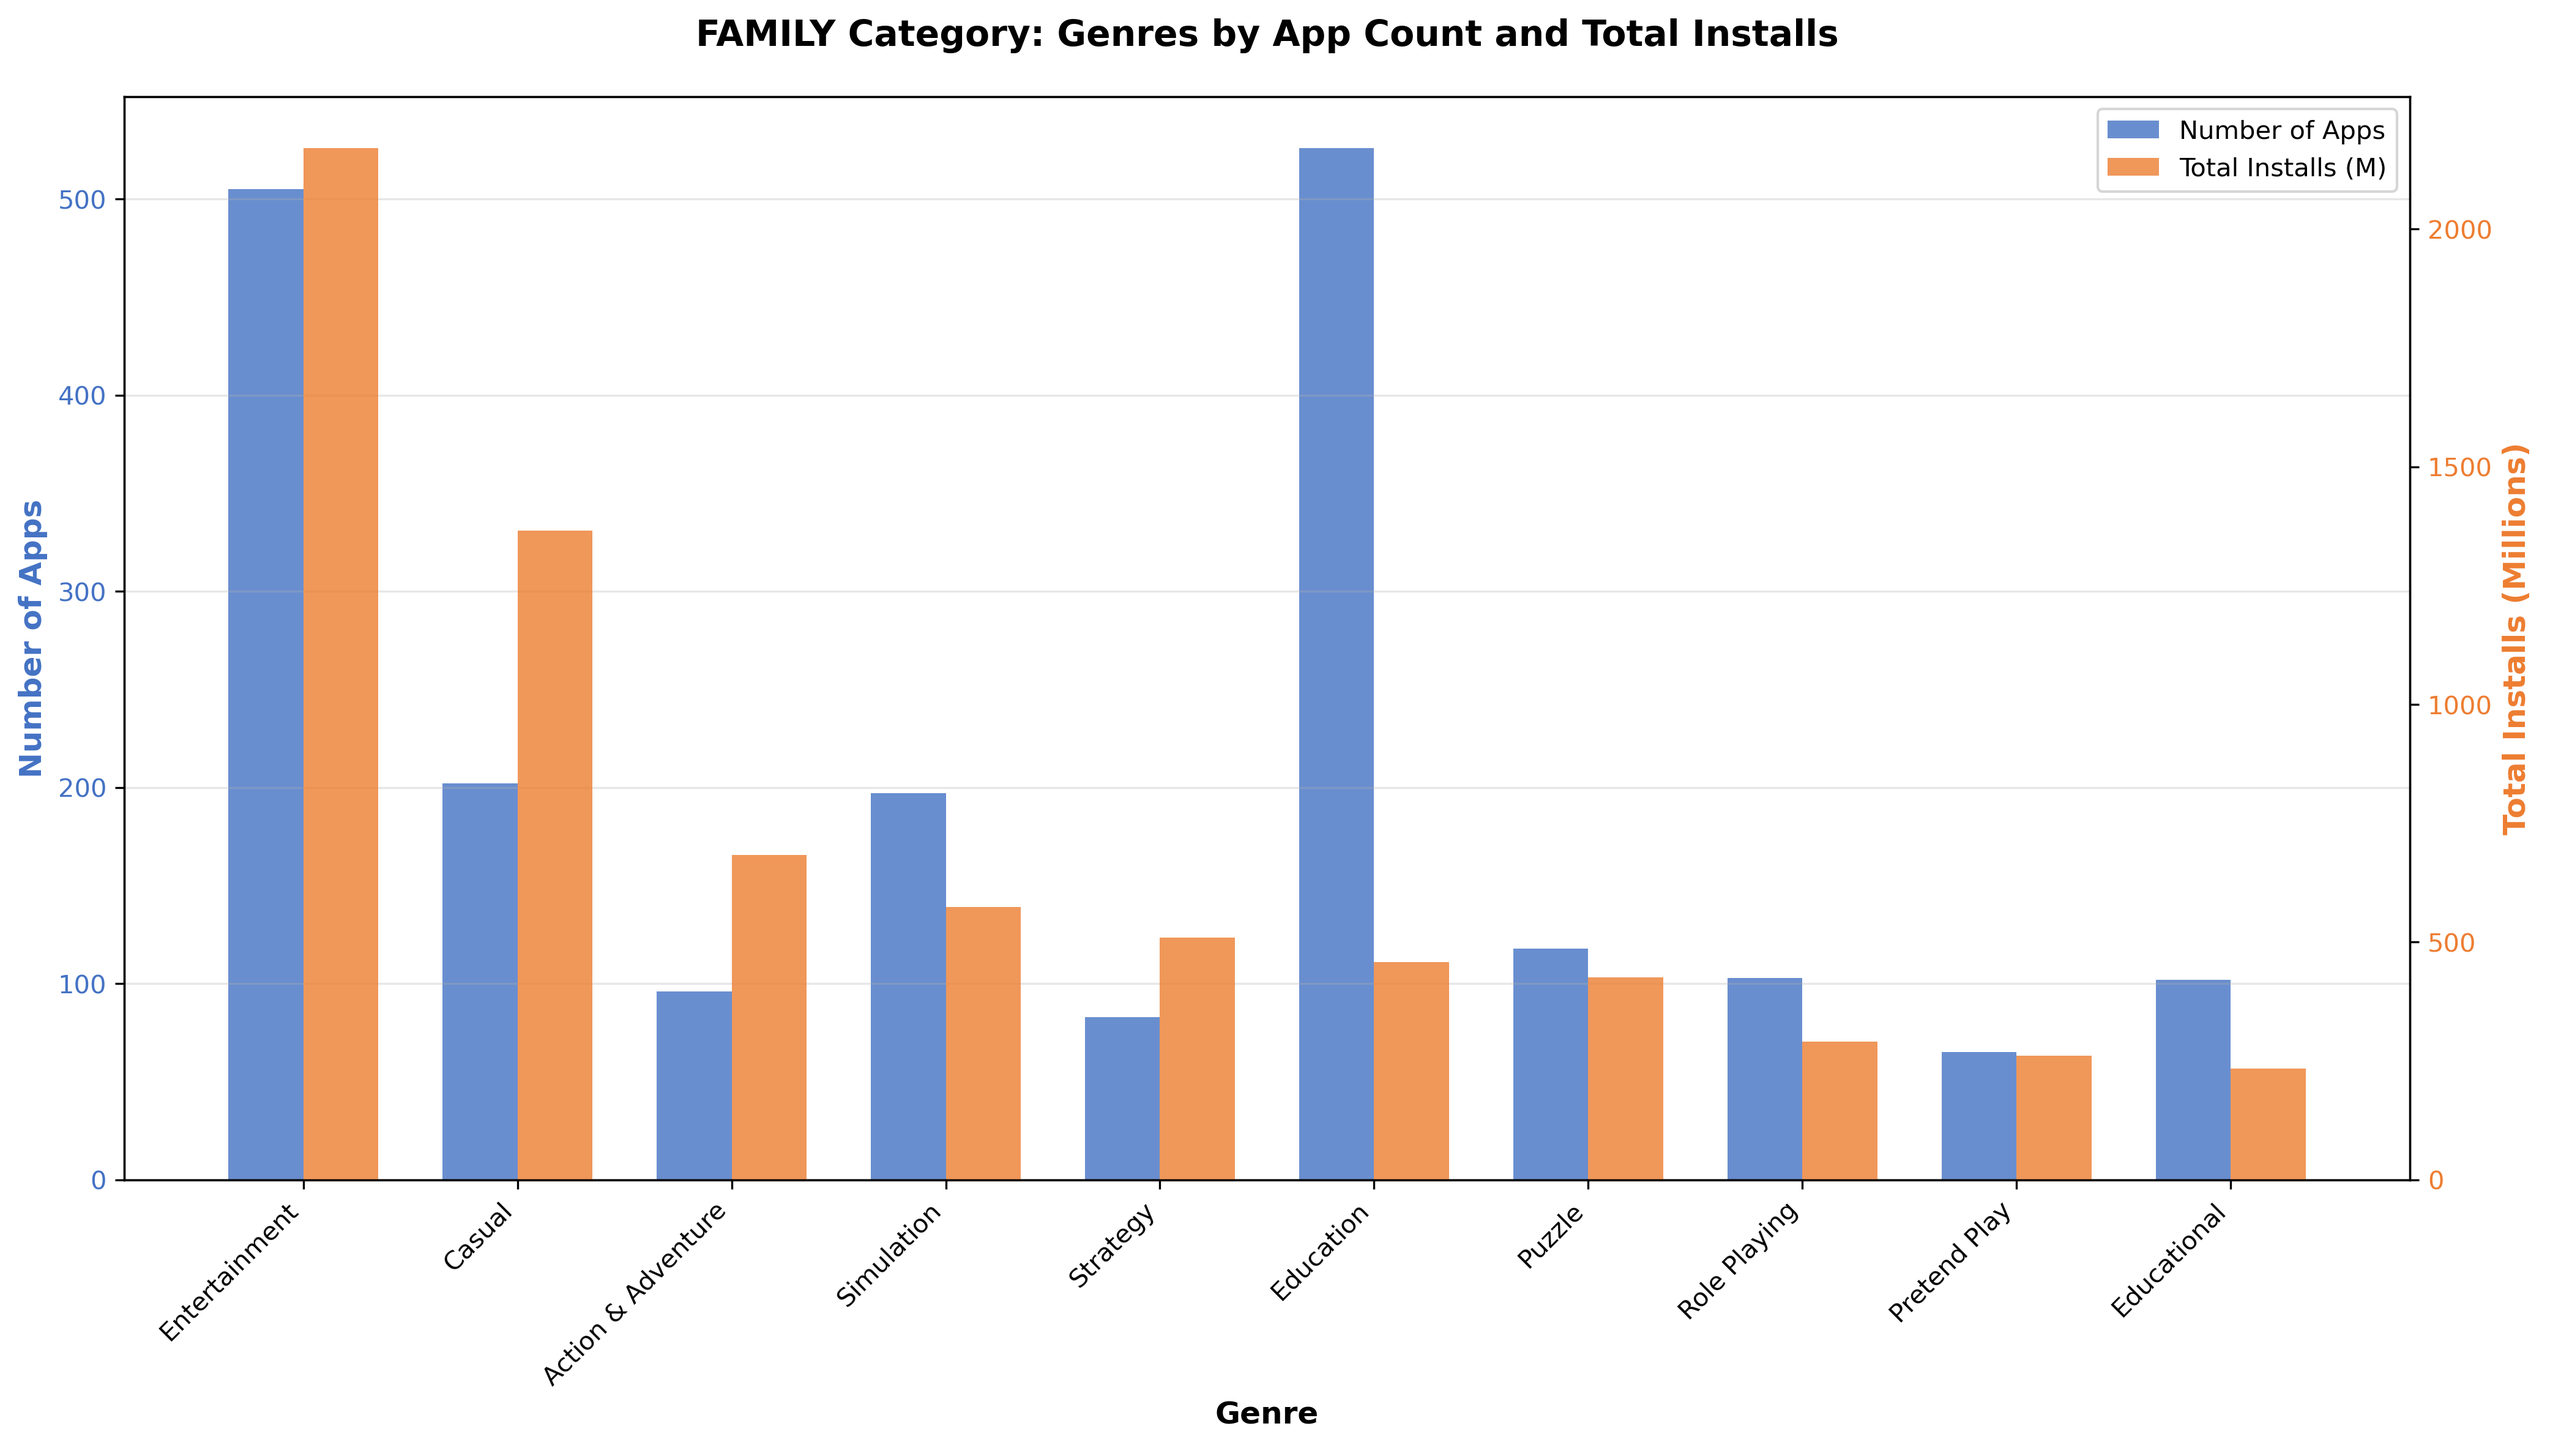
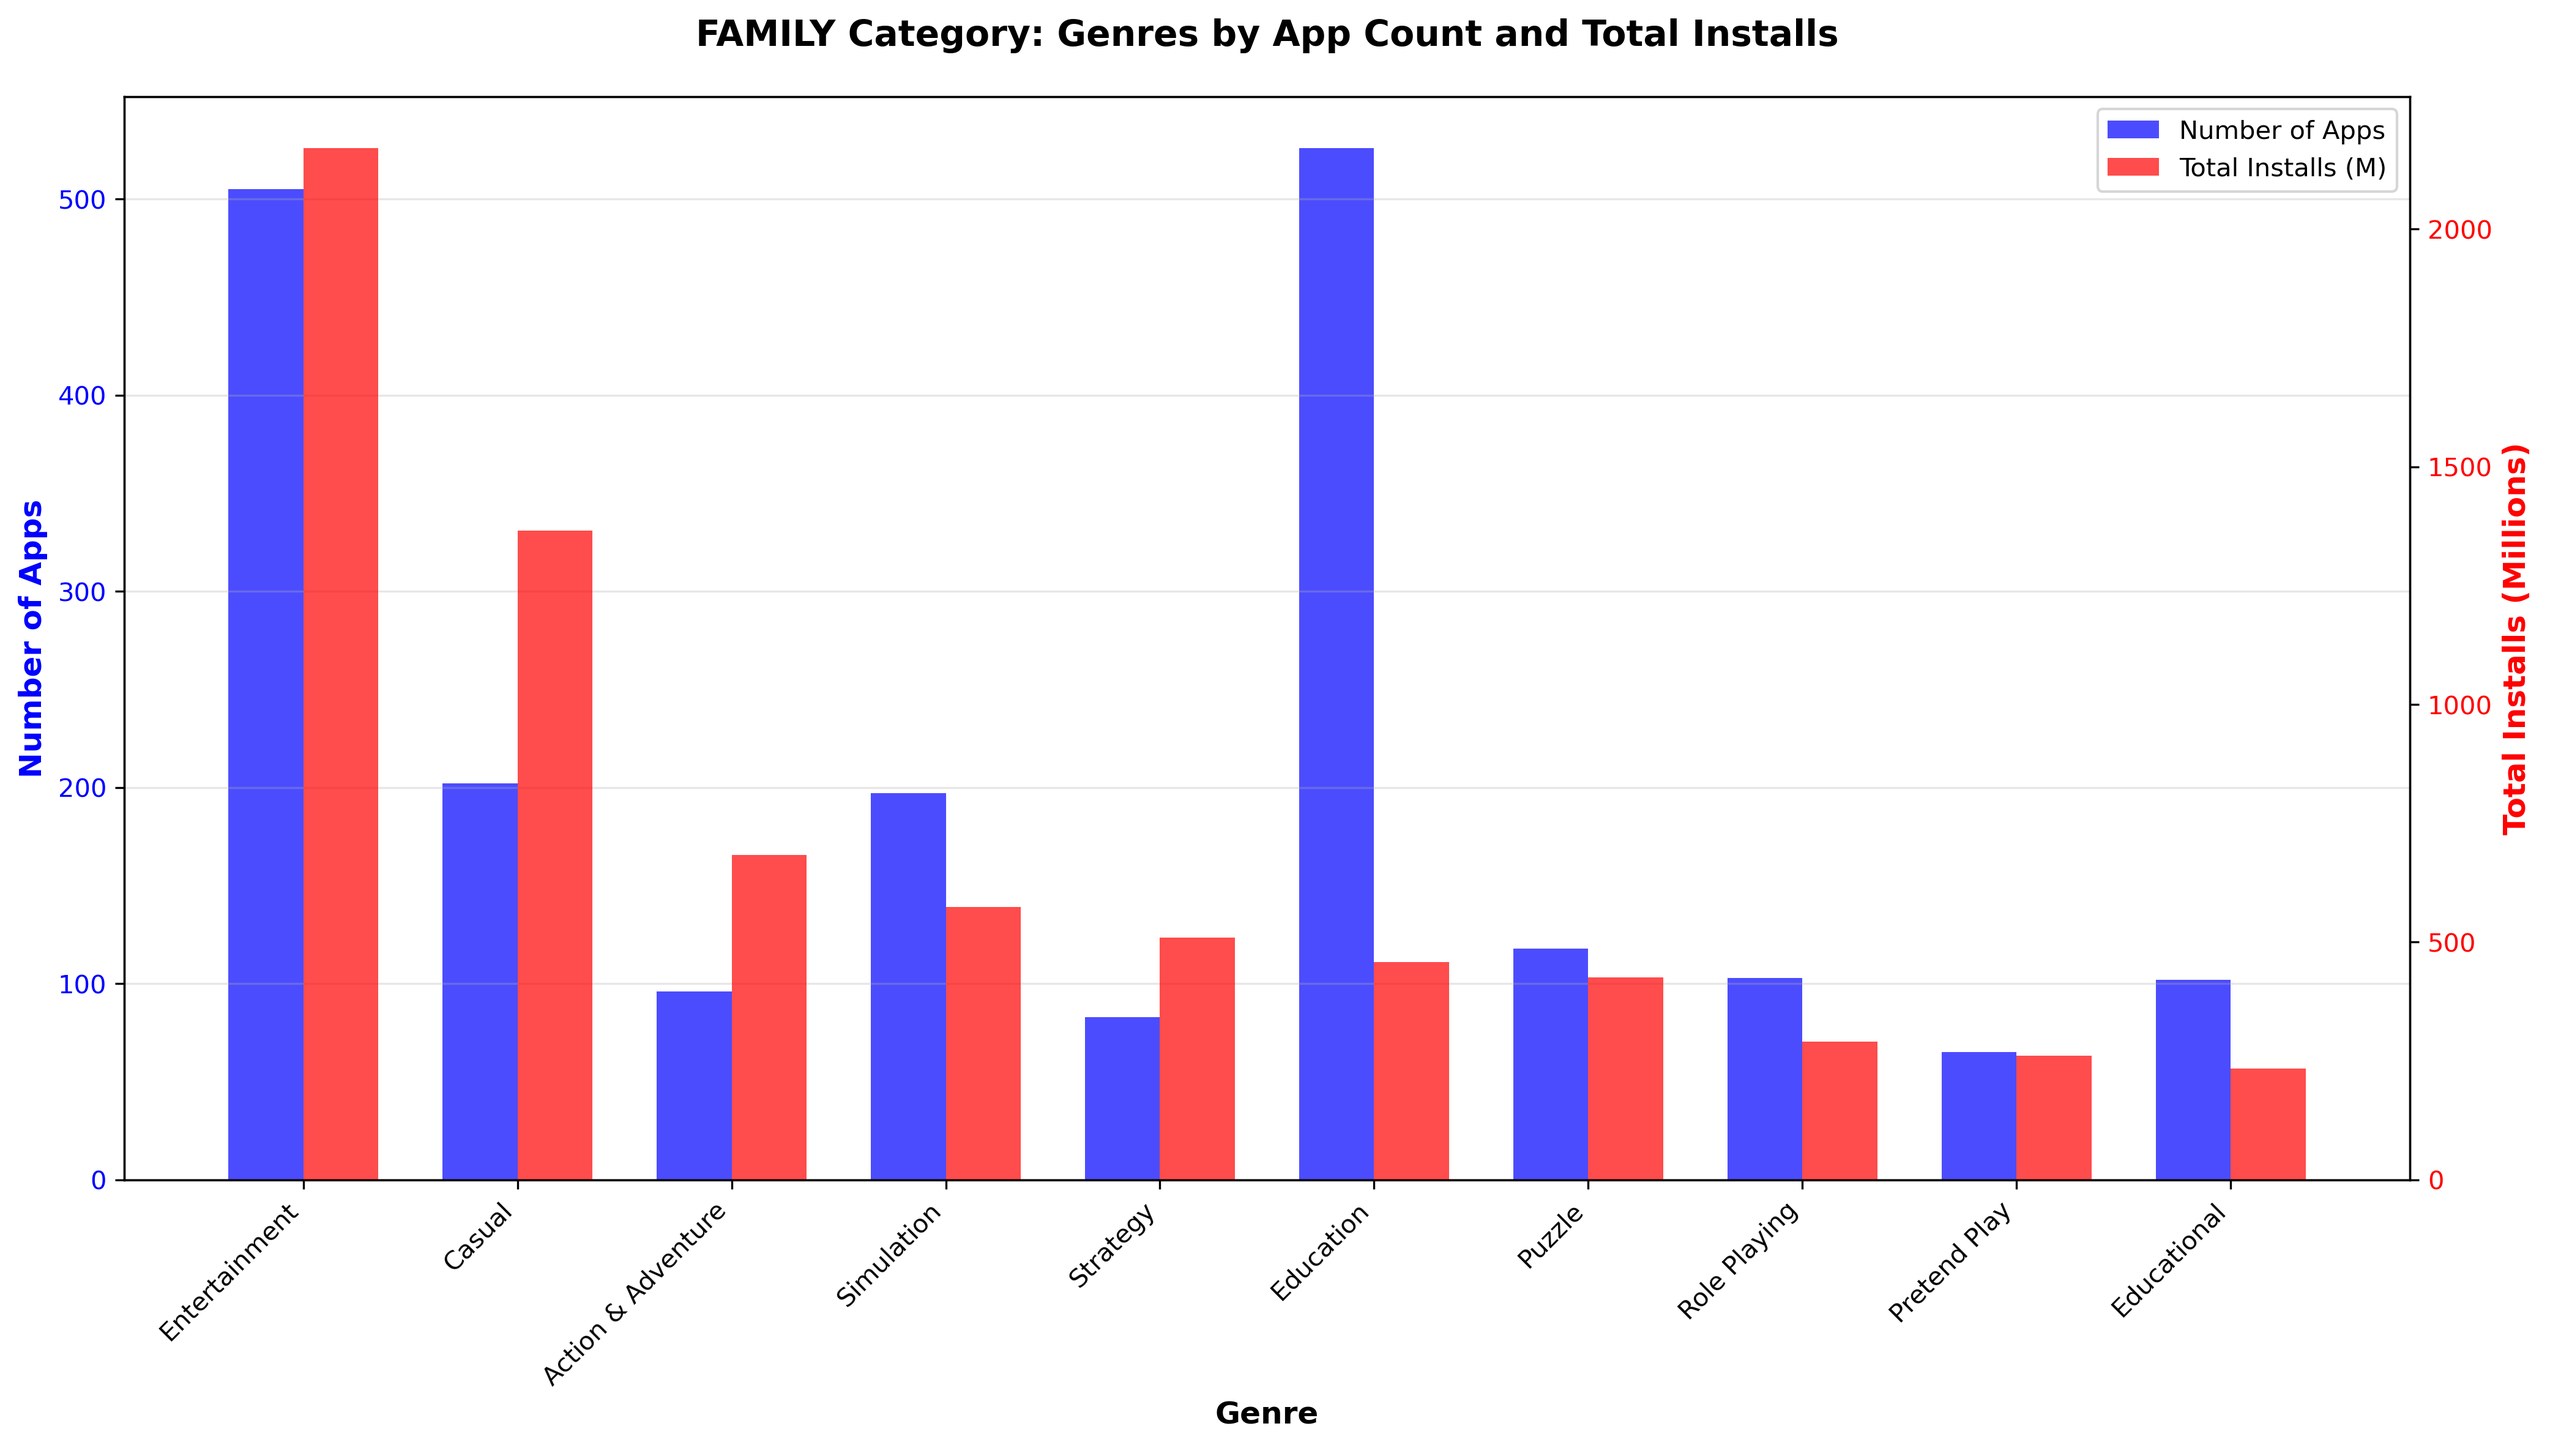
Fix colors: blue for #apps, red for #installs in FAMILY and GAME charts

diff --git a/genres/genre_analysis_v2.py b/genres/genre_analysis_v2.py
@@ -90,18 +90,18 @@ def plot_family_game_genres_comparison(
     # Normalize installs for better visualization (divide by 1M)
     installs_normalized = family_data['Total_Installs'] / 1_000_000
     
-    bars1 = ax.bar(x - width/2, family_data['App_Count'], width, label='Number of Apps', color='#4472C4', alpha=0.8)
+    bars1 = ax.bar(x - width/2, family_data['App_Count'], width, label='Number of Apps', color='blue', alpha=0.7)
     ax2 = ax.twinx()
-    bars2 = ax2.bar(x + width/2, installs_normalized, width, label='Total Installs (M)', color='#ED7D31', alpha=0.8)
+    bars2 = ax2.bar(x + width/2, installs_normalized, width, label='Total Installs (M)', color='red', alpha=0.7)
     
     ax.set_xlabel('Genre', fontsize=12, weight='bold')
-    ax.set_ylabel('Number of Apps', fontsize=12, weight='bold', color='#4472C4')
-    ax2.set_ylabel('Total Installs (Millions)', fontsize=12, weight='bold', color='#ED7D31')
+    ax.set_ylabel('Number of Apps', fontsize=12, weight='bold', color='blue')
+    ax2.set_ylabel('Total Installs (Millions)', fontsize=12, weight='bold', color='red')
     ax.set_title('FAMILY Category: Genres by App Count and Total Installs', fontsize=14, weight='bold', pad=20)
     ax.set_xticks(x)
     ax.set_xticklabels(family_data['Genre'], rotation=45, ha='right')
-    ax.tick_params(axis='y', labelcolor='#4472C4')
-    ax2.tick_params(axis='y', labelcolor='#ED7D31')
+    ax.tick_params(axis='y', labelcolor='blue')
+    ax2.tick_params(axis='y', labelcolor='red')
     ax.grid(True, alpha=0.3, axis='y')
     
     # Combined legend
@@ -124,18 +124,18 @@ def plot_family_game_genres_comparison(
     # Normalize installs for better visualization (divide by 1M)
     installs_normalized = game_data['Total_Installs'] / 1_000_000
     
-    bars1 = ax.bar(x - width/2, game_data['App_Count'], width, label='Number of Apps', color='#4472C4', alpha=0.8)
+    bars1 = ax.bar(x - width/2, game_data['App_Count'], width, label='Number of Apps', color='blue', alpha=0.7)
     ax2 = ax.twinx()
-    bars2 = ax2.bar(x + width/2, installs_normalized, width, label='Total Installs (M)', color='#ED7D31', alpha=0.8)
+    bars2 = ax2.bar(x + width/2, installs_normalized, width, label='Total Installs (M)', color='red', alpha=0.7)
     
     ax.set_xlabel('Genre', fontsize=12, weight='bold')
-    ax.set_ylabel('Number of Apps', fontsize=12, weight='bold', color='#4472C4')
-    ax2.set_ylabel('Total Installs (Millions)', fontsize=12, weight='bold', color='#ED7D31')
+    ax.set_ylabel('Number of Apps', fontsize=12, weight='bold', color='blue')
+    ax2.set_ylabel('Total Installs (Millions)', fontsize=12, weight='bold', color='red')
     ax.set_title('GAME Category: Genres by App Count and Total Installs', fontsize=14, weight='bold', pad=20)
     ax.set_xticks(x)
     ax.set_xticklabels(game_data['Genre'], rotation=45, ha='right')
-    ax.tick_params(axis='y', labelcolor='#4472C4')
-    ax2.tick_params(axis='y', labelcolor='#ED7D31')
+    ax.tick_params(axis='y', labelcolor='blue')
+    ax2.tick_params(axis='y', labelcolor='red')
     ax.grid(True, alpha=0.3, axis='y')
     
     # Combined legend
